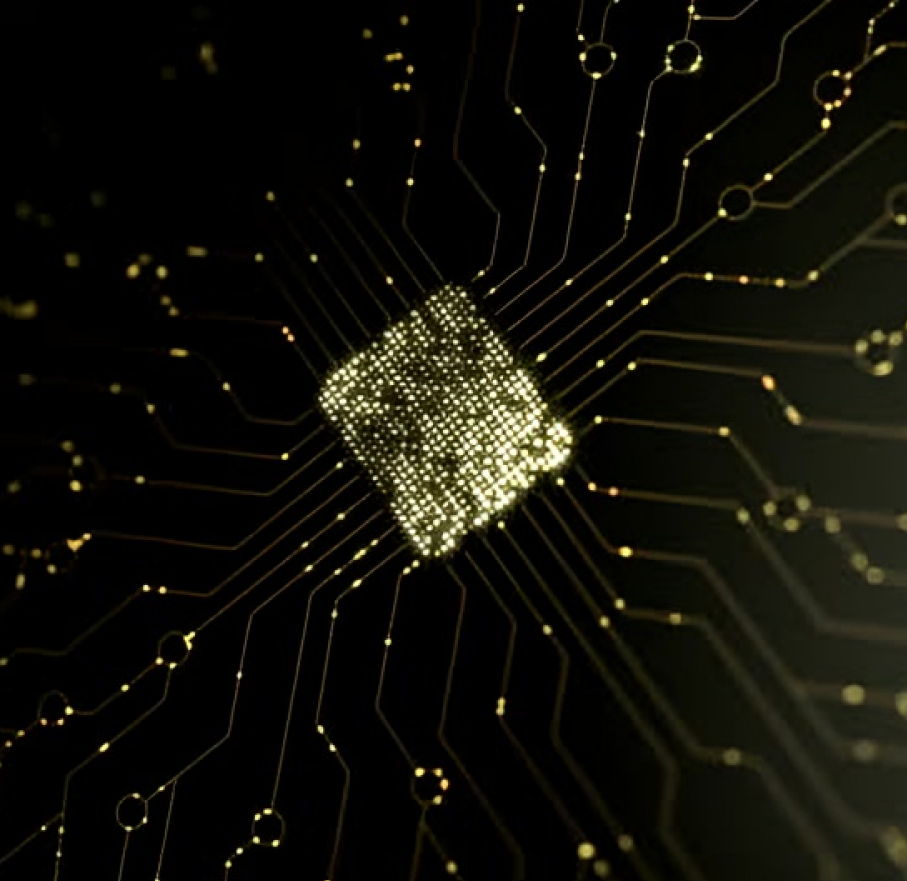
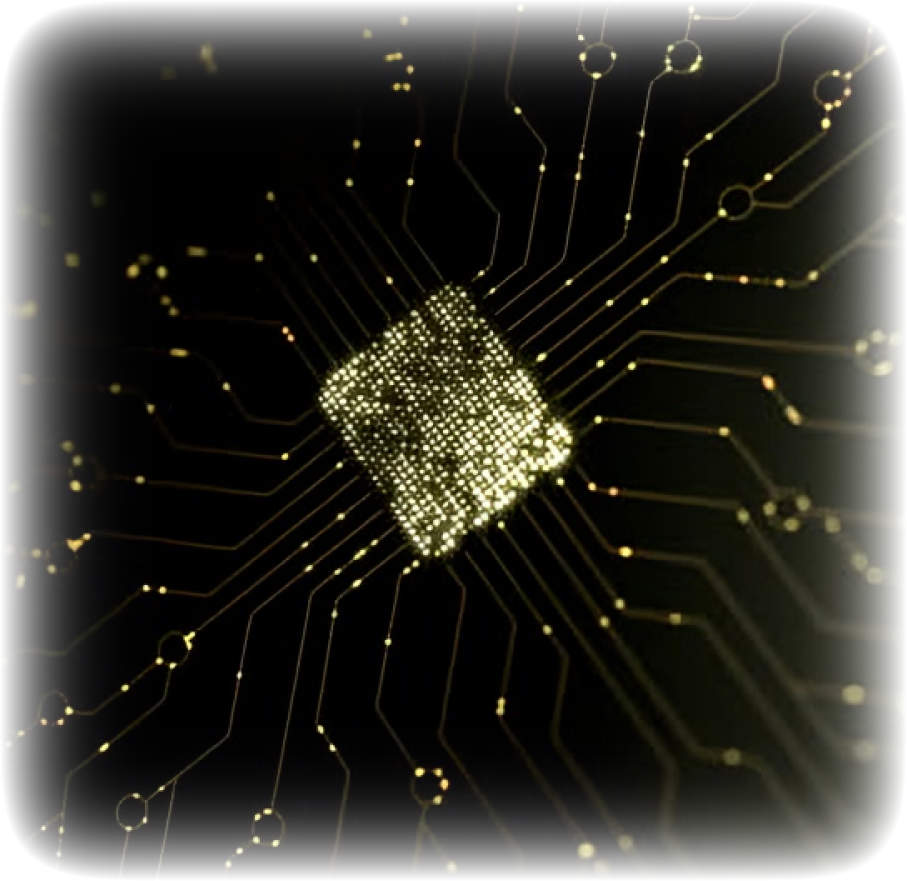
chip.png change

diff --git a/styles/chip.css b/styles/chip.css
@@ -221,8 +221,8 @@ header {
 
 /* Welcome to the Future */
 #welcomeFuture img {
-  max-width: 80rem;
-  max-height: 80rem;
+  max-width: 65rem;
+  max-height: 65rem;
 }
 
 #welcomeFuture {
